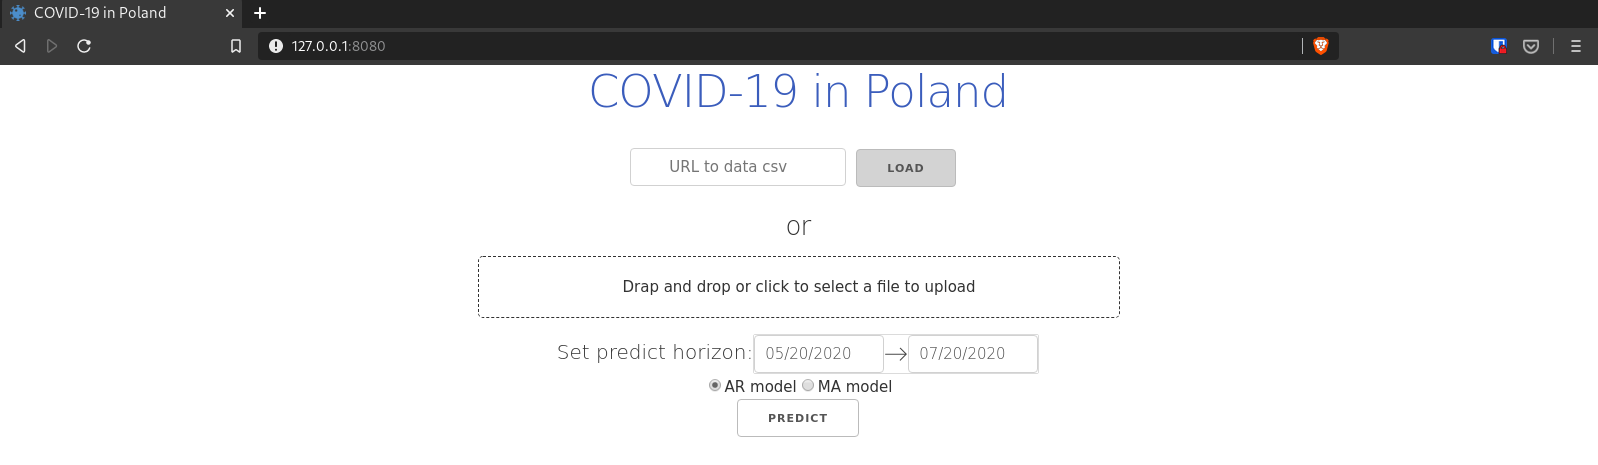
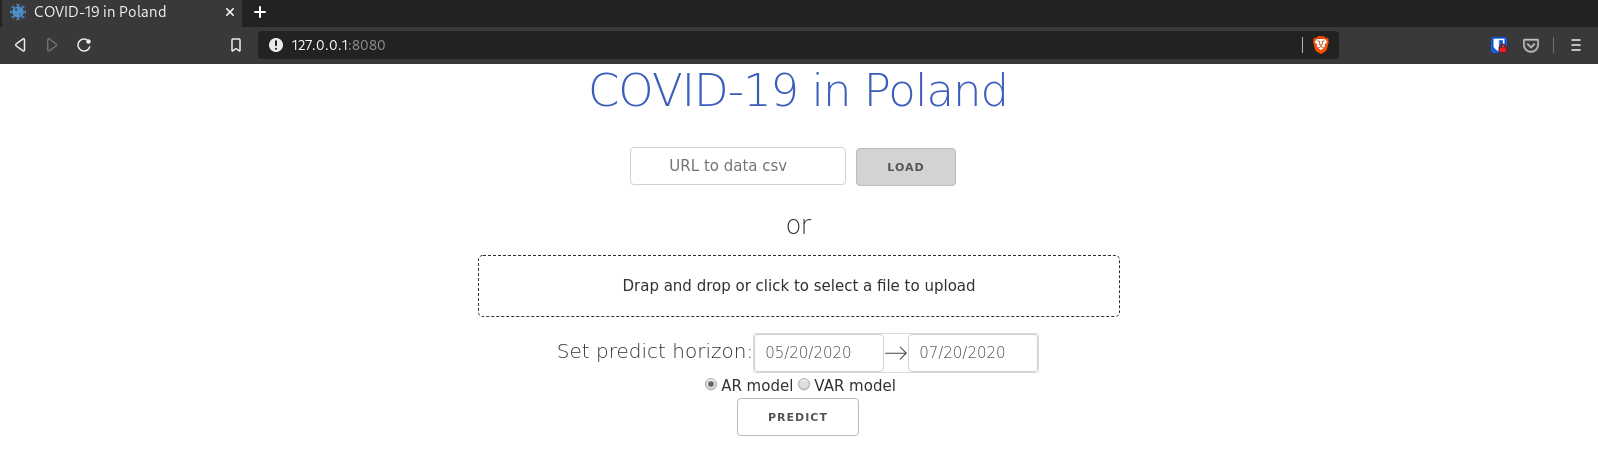
Update gui images (#21)

diff --git a/report/FinalReport.tex b/report/FinalReport.tex
@@ -112,7 +112,7 @@ Main class contain methods which implement steps easy to split for external reso
 \item \textit{load\_data} - implements data gathering model to load data from web or local file. It is possible to provide data also as complete DataFrame during object initialization.
 \item \textit{set\_predict\_horizon} - sets dates in which next data points should be predicted. Dates should be datatime object from datatime library.
 \item \textit{train\_AR} - method which trains Autoregression model based on previously loaded data.
-\item \textit{train\_MA} - method which trains Autoregressive Integrated Moving Average model based on previously loaded data.
+\item \textit{train\_VAR} - method which trains Vector Autoregression model based on previously loaded data.
 \item \textit{predict} - Because it is possible to alternatively train model with two separate methods then this method uses one of models (the one that was run as last) and predicts next data points up to predict horizon.
 \item \textit{plt} - this method prints out matplotlib plot with actual data and predicted data points.
 \item \textit{get\_dcc\_Graph} - this method returns Dash Core Components Graph with actual data and predicted data which may be used with GUI applications created in Dash
